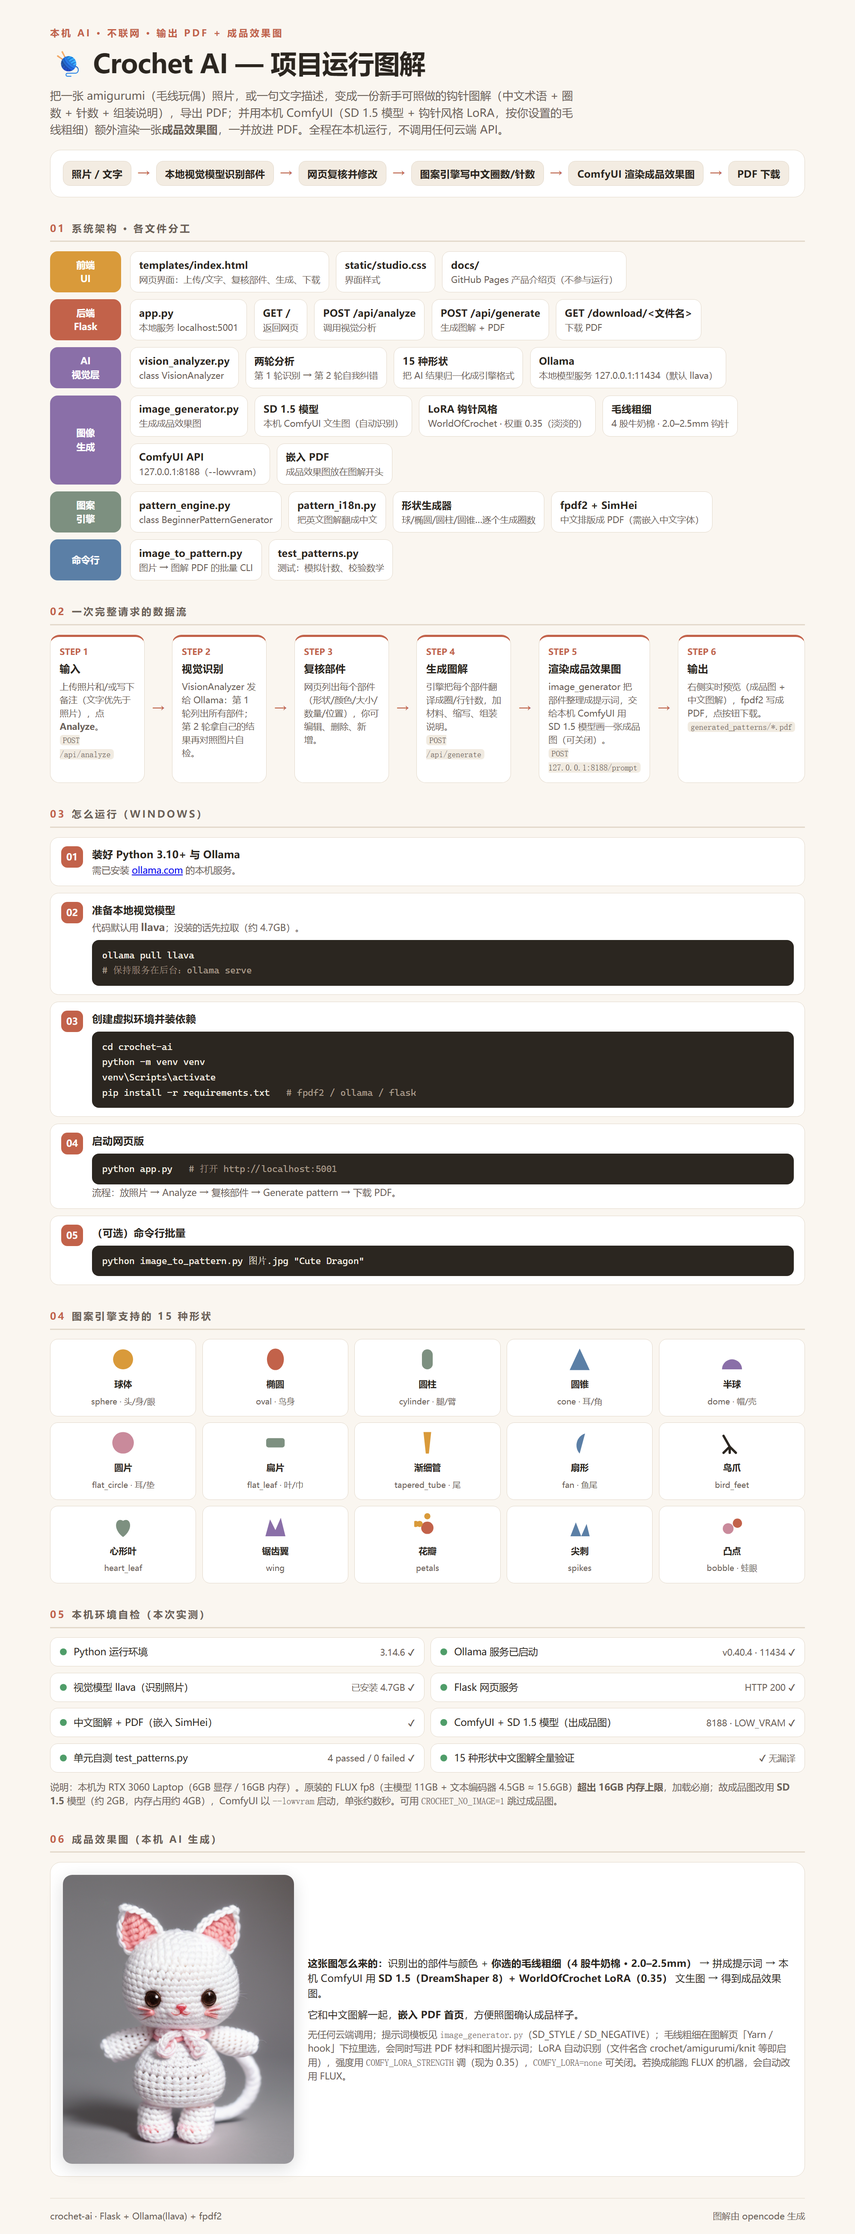
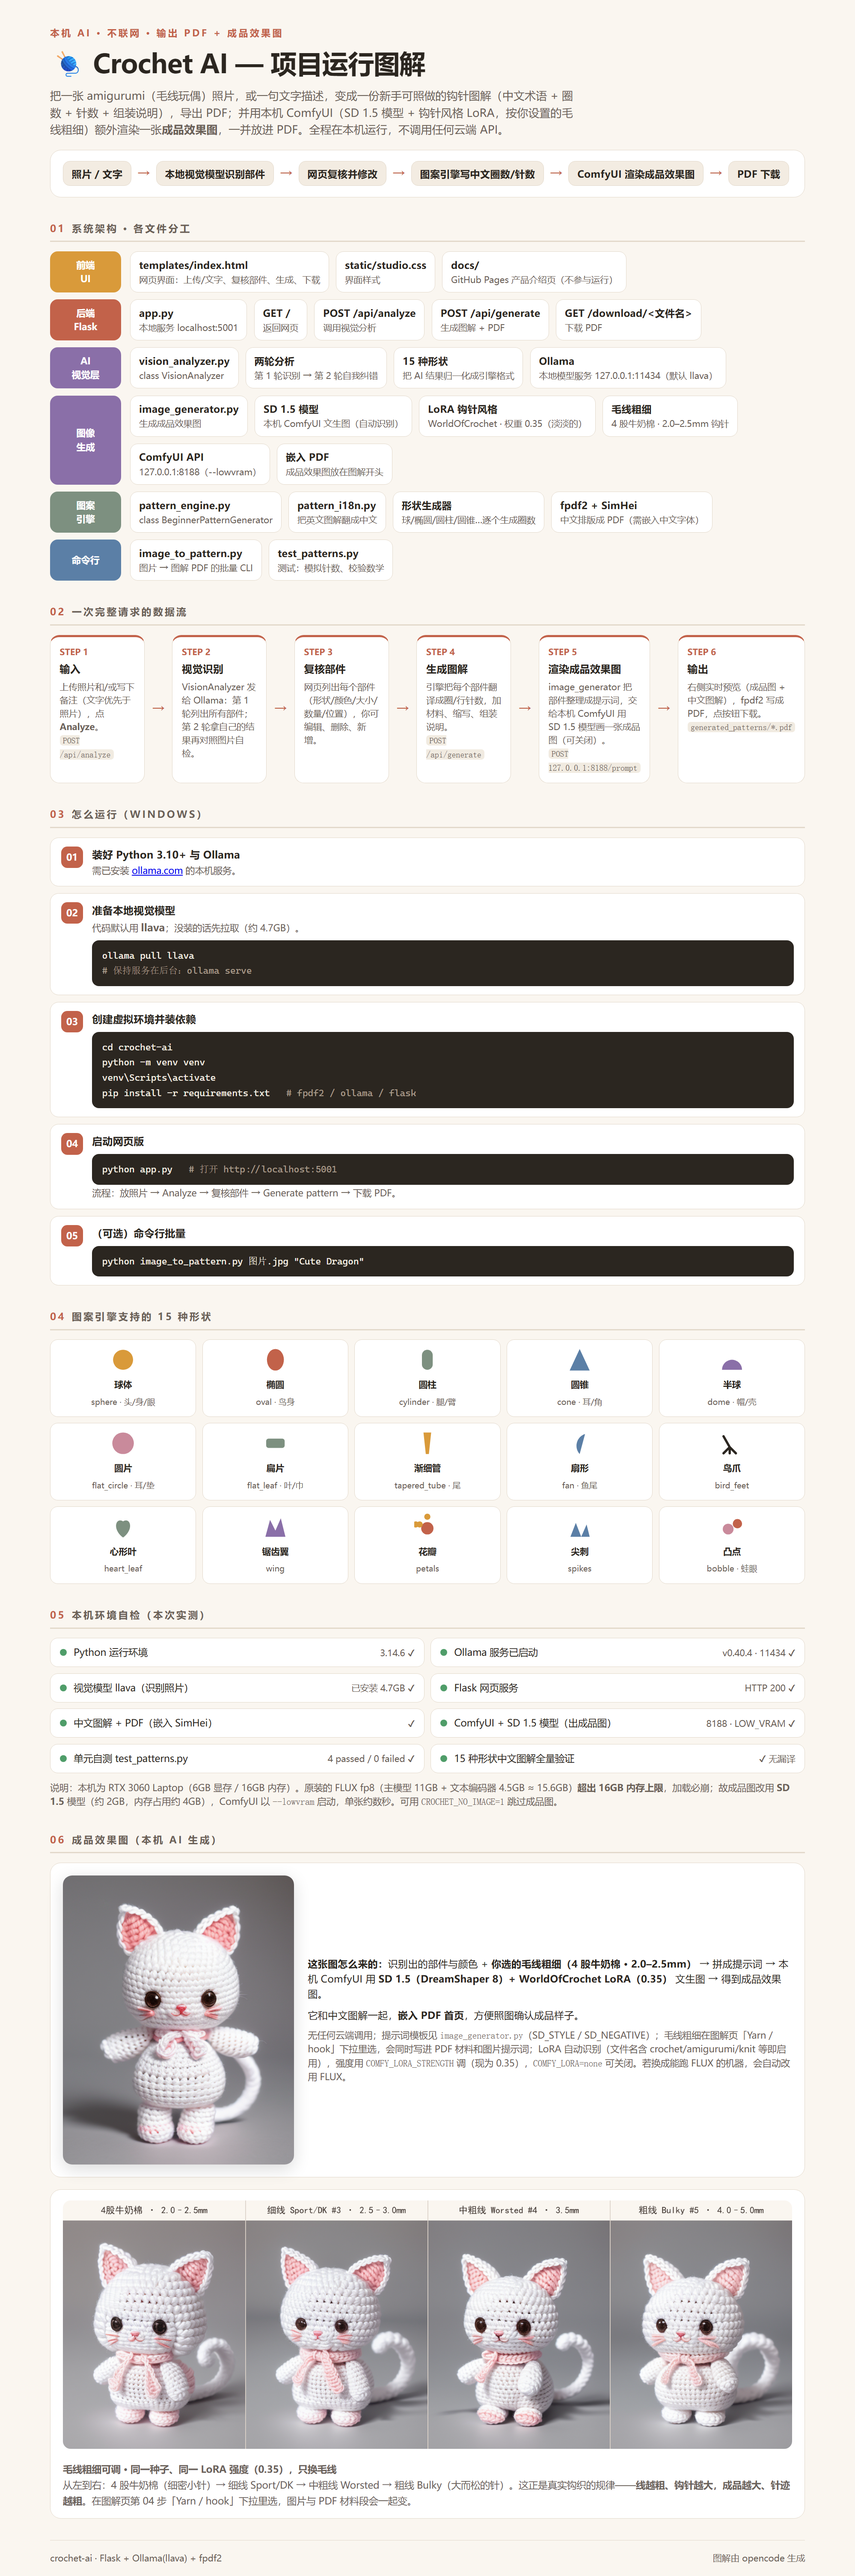
Embed the yarn comparison in the poster's finished-product section
Section 06 now shows the render and, underneath, the four-thickness comparison
with a caption explaining that only the yarn changed (same seed, same LoRA
weight). Also fixes poster_render.py to copy every diagram image the page
references, not just preview.png.

Changed region(s): [[0.031, 0.0, 0.9309, 0.9994], [0.7447, 0.6871, 0.7758, 0.7183], [0.5896, 0.1874, 0.6206, 0.2186]]

diff --git a/diagrams/overview.html b/diagrams/overview.html
@@ -273,6 +273,13 @@ pip install -r requirements.txt   <span class="c"># fpdf2 / ollama / flask</span
         <p class="note">无任何云端调用；提示词模板见 <code>image_generator.py</code>（SD_STYLE / SD_NEGATIVE）；毛线粗细在图解页「Yarn / hook」下拉里选，会同时写进 PDF 材料和图片提示词；LoRA 自动识别（文件名含 crochet/amigurumi/knit 等即启用），强度用 <code>COMFY_LORA_STRENGTH</code> 调（现为 0.35），<code>COMFY_LORA=none</code> 可关闭。若换成能跑 FLUX 的机器，会自动改用 FLUX。</p>
       </div>
     </div>
+    <figure style="margin:16px 0 0; background:var(--card); border:1px solid var(--line); border-radius:14px; padding:14px 16px 12px;">
+      <img src="yarn-compare.png" alt="毛线粗细对比" style="width:100%; border-radius:10px;">
+      <figcaption style="font-size:12.5px; color:#6b625b; margin-top:10px; line-height:1.65;">
+        <b>毛线粗细可调 · 同一种子、同一 LoRA 强度（0.35），只换毛线</b><br>
+        从左到右：4 股牛奶棉（细密小针）→ 细线 Sport/DK → 中粗线 Worsted → 粗线 Bulky（大而松的针）。这正是真实钩织的规律——<b>线越粗、钩针越大，成品越大、针迹越粗</b>。在图解页第 04 步「Yarn / hook」下拉里选，图片与 PDF 材料段会一起变。
+      </figcaption>
+    </figure>
   </section>
 
   <footer>
